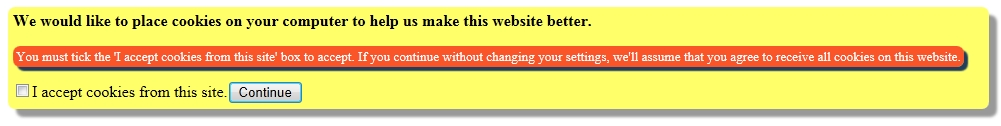
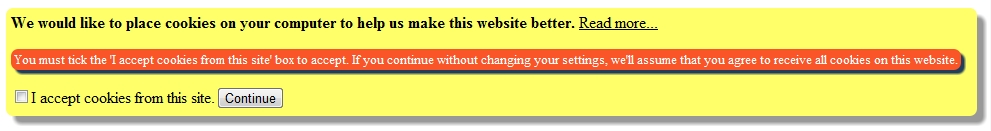
"Read more" link added. The script checked on JSLint.

Changed region(s): [[0.0, 0.0476, 0.999, 0.9762]]

diff --git a/A simple cookie warning/warnCookies.js b/A simple cookie warning/warnCookies.js
@@ -1,8 +1,8 @@
 ///////////////////////////////////////
 // Author: Donatas Stonys            //
-// WWW: http://www.bluewhaleseo.com  //
-// Date: 8 June 2012                 //
-// Version: 0.5                      //
+// WWW: http://www.BlueWhaleSEO.com  //
+// Date: 13 June 2012                 //
+// Version: 0.6                      //
 ///////////////////////////////////////
 
 // Asign current date to variable //
@@ -87,15 +87,19 @@ function acceptCookies() {
 	"use strict";
 
 	document.getElementById("cookiesWarning").appendChild(newCookiesWarningDiv).setAttribute("id", "cookiesWarningActive");
-	document.getElementById("cookiesWarningActive").innerHTML = "<strong>We would like to place cookies on your computer to help us make this website better.</strong><form name='cookieAgreement'><input type='checkbox' name='agreed' value='Agreed'>I accept cookies from this site.<input type='submit' value='Continue' onclick='getAgreementValue(); return false;'></form>";
+	document.getElementById("cookiesWarningActive").innerHTML = "<strong>We would like to place cookies on your computer to help us make this website better. </strong><span id='readMoreURL'></span><form name='cookieAgreement'><input type='checkbox' name='agreed' value='Agreed'>I accept cookies from this site.<input type='submit' value='Continue' onclick='getAgreementValue(); return false;'></form>";
+	// Change the URL of "Read more..." here
+	document.getElementById("readMoreURL").innerHTML = "<a href='http://www.ico.gov.uk/for_organisations/privacy_and_electronic_communications/the_guide/cookies.aspx' title='ICO - New EU cookie law (e-Privacy Directive)' target='_blank' rel='nofollow'>Read more...</a>";
 }
 
 function acceptCookiesTickBoxWarning() {
 	"use strict";
-	
+
 	setCookie("TestCookie", "Yes", "", "1 Jan 2000 00:00:00");
 	document.getElementById("cookiesWarning").appendChild(newCookiesWarningDiv).setAttribute("id", "cookiesWarningActive");
-	document.getElementById("cookiesWarningActive").innerHTML = "<strong>We would like to place cookies on your computer to help us make this website better.</strong><form name='cookieAgreement'><p><small>You must tick the 'I accept cookies from this site' box to accept. If you continue without changing your settings, we'll assume that you agree to receive all cookies on this website.</small></p><input type='checkbox' name='agreed' value='Agreed'>I accept cookies from this site.<input type='submit' value='Continue' onclick='getAgreementValue()'></form>";
+	document.getElementById("cookiesWarningActive").innerHTML = "<strong>We would like to place cookies on your computer to help us make this website better. </strong><span id='readMoreURL'></span><form name='cookieAgreement'><p><small>You must tick the 'I accept cookies from this site' box to accept. If you continue without changing your settings, we'll assume that you agree to receive all cookies on this website.</small></p><input type='checkbox' name='agreed' value='Agreed'>I accept cookies from this site.<input type='submit' value='Continue' onclick='getAgreementValue()'></form>";
+	// Change the URL of "Read more..." here
+	document.getElementById("readMoreURL").innerHTML = "<a href='http://www.ico.gov.uk/for_organisations/privacy_and_electronic_communications/the_guide/cookies.aspx' title='ICO - New EU cookie law (e-Privacy Directive)' target='_blank' rel='nofollow'>Read more...</a>";
 }
 
 // Check if cookie has been set before //

diff --git a/A simple cookie warning/cookies.css b/A simple cookie warning/cookies.css
@@ -19,3 +19,16 @@
 	border-radius: 7px;
 	box-shadow: 4px 4px 2px #233e5b;
 }
+
+#readMoreURL  a:link {
+	text-decoration: underline;
+	color: #000;
+}
+#readMoreURL  a:visited {
+	text-decoration: underline;
+	color: #000;
+}
+#readMoreURL  a:hover {
+	text-decoration: none;
+	color: #FA5528;
+}
